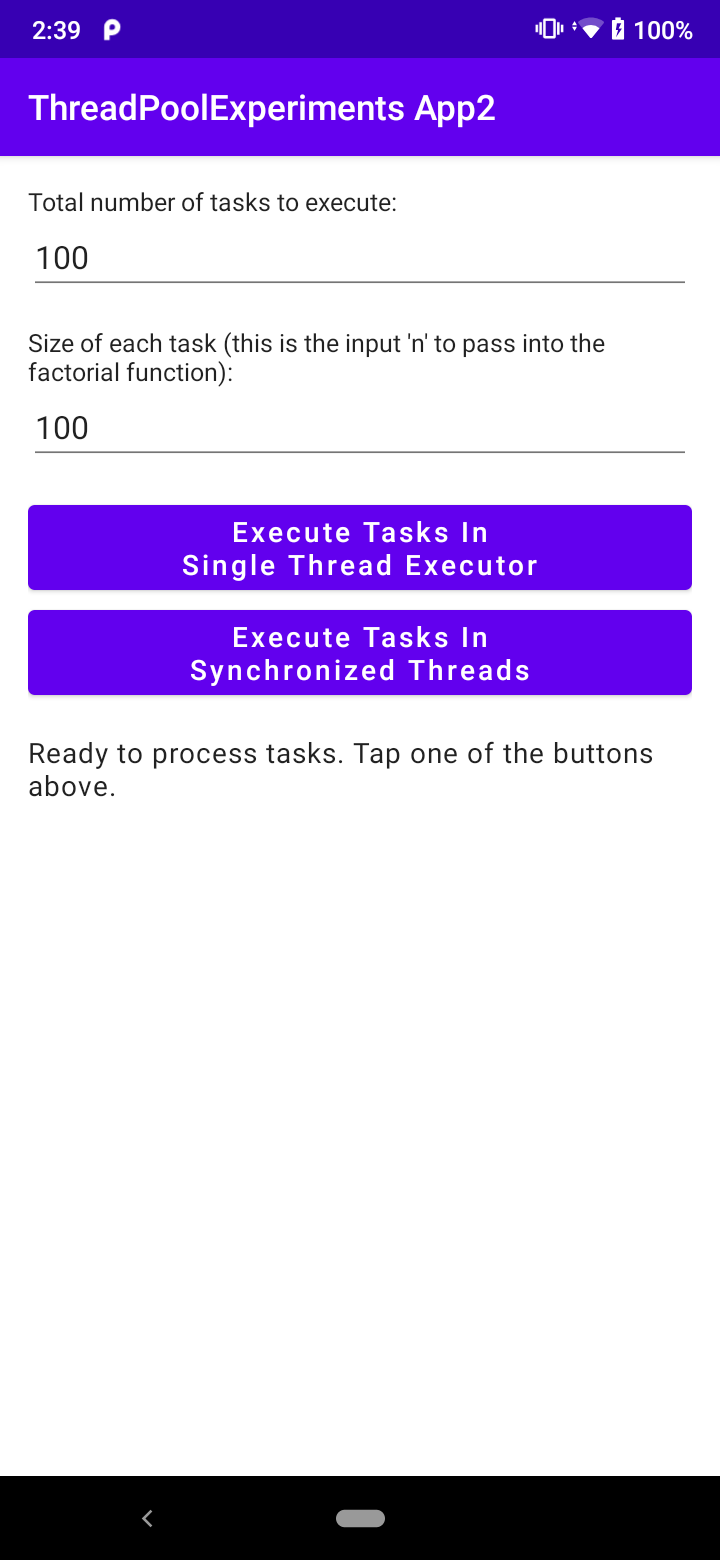
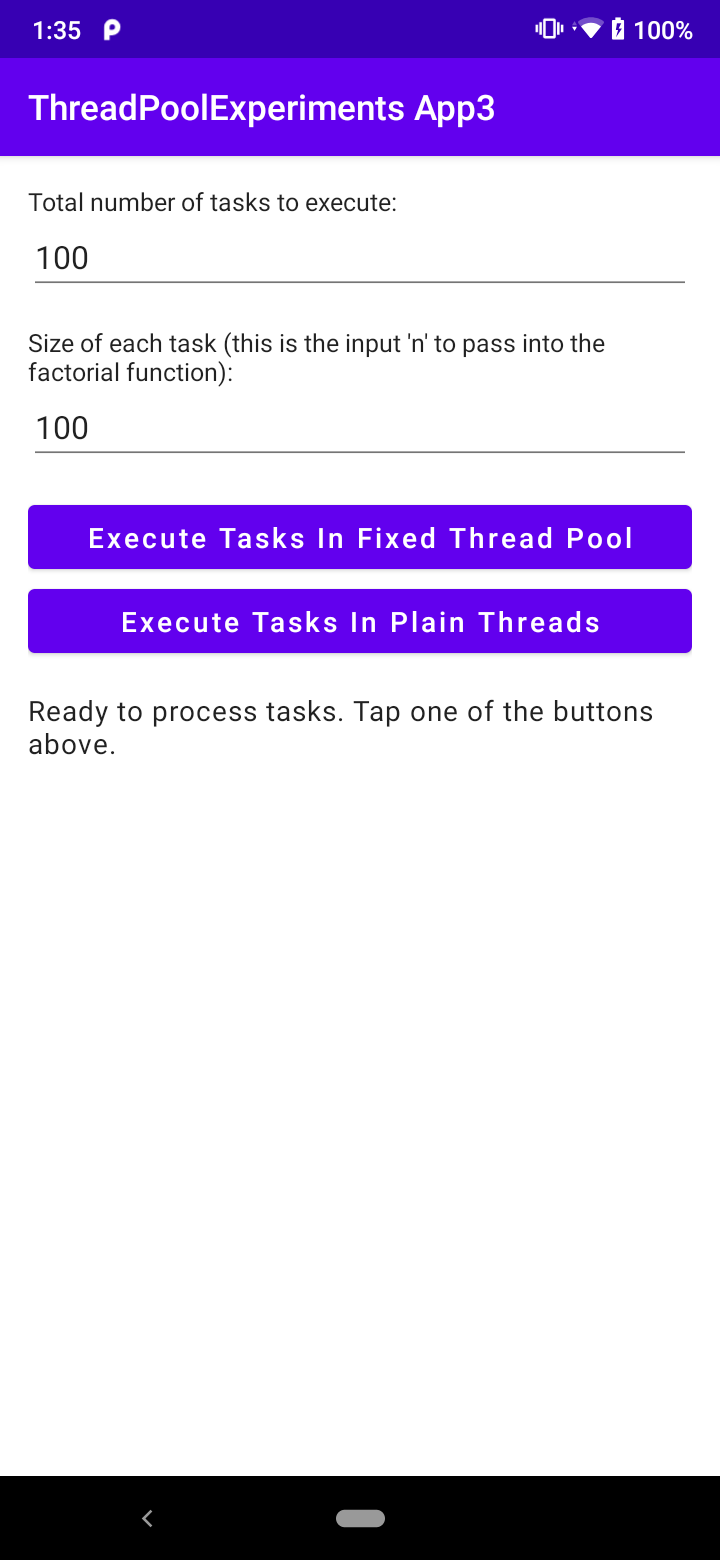
(app3) Added README.

diff --git a/app3/README.md b/app3/README.md
@@ -1,0 +1,89 @@
+# A comparison of using a fixed thread pool for executing tasks concurrently as opposed to an unbounded thread pool
+
+This module is a simple, single-screen Android application that compares
+a [Fixed Thread Pool](https://developer.android.com/reference/java/util/concurrent/Executors#newFixedThreadPool(int))
+for executing tasks concurrently as opposed to an unbounded thread pool.
+
+When you run the app, you will see an interface as in the screenshot below. The text in the interface
+describes the purpose of the app and the function of each of the buttons. The two tables below the screenshot
+show the difference in execution time when the factorial function is run multiple times in
+a [Fixed Thread Pool](https://developer.android.com/reference/java/util/concurrent/Executors#newFixedThreadPool(int))
+as opposed to spawning a separate thread for each execution.
+
+<img src="Screenshot.png" width="40%" alt="Screenshot of app">
+
+## Executing the factorial function repeatedly in a Fixed Thread Pool
+
+The table below shows the total execution time when the factorial function is run repeatedly in
+a [Fixed Thread Pool](https://developer.android.com/reference/java/util/concurrent/Executors#newFixedThreadPool(int))
+which has a size equal to the number of processors available to the Java virtual machine.
+
+<table>
+    <tr>
+        <th></th>
+        <th>factorial(100)</th>
+        <th>factorial(1,000)</th>
+        <th>factorial(10,000)</th>
+    </tr>
+    <tr>
+        <th>1 execution</th>
+        <td>&lt; 10 milliseconds</td>
+        <td>&lt; 20 milliseconds</td>
+        <td>&lt; 300 milliseconds</td>
+    </tr>
+    <tr>
+        <th>10 executions</th>
+        <td>&lt; 10 milliseconds</td>
+        <td>&lt; 50 milliseconds</td>
+        <td>&lt; 1,000 milliseconds</td>
+    </tr>
+    <tr>
+        <th>100 executions</th>
+        <td>&lt; 50 milliseconds</td>
+        <td>&lt; 300 milliseconds</td>
+        <td>App crashes</td>
+    </tr>
+</table>
+
+## Spawning a new thread for each execution of the factorial function
+
+The table below shows the total execution time when a new thread is spawned for each execution of the
+factorial function. The threads are not `synchronized` so they are all alive in memory and running
+concurrently.
+
+<table>
+    <tr>
+        <th></th>
+        <th>factorial(100)</th>
+        <th>factorial(1,000)</th>
+        <th>factorial(10,000)</th>
+    </tr>
+    <tr>
+        <th>1 execution</th>
+        <td>&lt; 10 milliseconds</td>
+        <td>&lt; 20 milliseconds</td>
+        <td>&lt; 300 milliseconds</td>
+    </tr>
+    <tr>
+        <th>10 executions</th>
+        <td>&lt; 20 milliseconds</td>
+        <td>&lt; 50 milliseconds</td>
+        <td>&lt; 1,000 milliseconds</td>
+    </tr>
+    <tr>
+        <th>100 executions</th>
+        <td>&lt; 100 milliseconds</td>
+        <td>&lt; 600 milliseconds</td>
+        <td>App crashes</td>
+    </tr>
+</table>
+
+## Conclusion
+
+My takeaway from this app is that the difference between using
+a [Fixed Thread Pool](https://developer.android.com/reference/java/util/concurrent/Executors#newFixedThreadPool(int))
+and an unbounded thread pool for concurrent task execution in an Android application is quite inconsequential
+in terms of execution time. The total execution time is almost identical in
+the [Fixed Thread Pool](https://developer.android.com/reference/java/util/concurrent/Executors#newFixedThreadPool(int))
+as it is in the unbounded thread pool regardless of the size of the task being executed and regardless of the
+number of tasks that are running concurrently.

diff --git a/app2/README.md b/app2/README.md
@@ -1,9 +1,10 @@
-# A comparison of using the ThreadPoolExecutor class as a sequential queue as opposed to the synchronized keyword
+# A comparison of using a single thread executor for executing tasks serially as opposed to the synchronized keyword
 
-This module is a simple, single-screen Android application that compares
-the [ThreadPoolExecutor](https://developer.android.com/reference/java/util/concurrent/ThreadPoolExecutor)
-class and the [synchronized](https://docs.oracle.com/javase/tutorial/essential/concurrency/syncmeth.html)
-keyword as a means of achieving a sequential queue.
+This module is a simple, single-screen Android application that compares the performance benefits of using
+a [Single Thread Executor](https://developer.android.com/reference/java/util/concurrent/Executors#newSingleThreadExecutor())
+for executing tasks serially as opposed to
+the [synchronized](https://docs.oracle.com/javase/tutorial/essential/concurrency/syncmeth.html)
+keyword.
 
 When you run the app, you will see an interface as in the screenshot below. The text in the interface
 describes the purpose of the app and the function of each of the buttons. The two tables below the screenshot
@@ -80,11 +81,11 @@ factorial function. The threads are `synchronized` so that only one is running a
 
 ## Conclusion
 
-My takeaway from this app is that the difference between using the
-[ThreadPoolExecutor](https://developer.android.com/reference/java/util/concurrent/ThreadPoolExecutor)
-class and the [synchronized](https://docs.oracle.com/javase/tutorial/essential/concurrency/syncmeth.html)
+My takeaway from this app is that the difference between using
+a [Single Thread Executor](https://developer.android.com/reference/java/util/concurrent/Executors#newSingleThreadExecutor())
+and the [synchronized](https://docs.oracle.com/javase/tutorial/essential/concurrency/syncmeth.html)
 keyword for queuing tasks in an Android application is quite inconsequential in terms of execution time. The
 total execution time is lower in
-the [ThreadPoolExecutor](https://developer.android.com/reference/java/util/concurrent/ThreadPoolExecutor) when
-the size of the tasks is large and/or when the number of tasks scheduled is large but the difference in
-execution time is not as large as one might imagine.
+the [Single Thread Executor](https://developer.android.com/reference/java/util/concurrent/Executors#newSingleThreadExecutor())
+when the size of the tasks is large and/or when the number of tasks scheduled is large. However, the
+difference in execution time is not as large as one might imagine.

diff --git a/README.md b/README.md
@@ -8,6 +8,8 @@ The applications in this project are as follows:
 
 * [app1](app1) – An analysis of the `corePoolSize`, `maximumPoolSize`, `keepAliveTime` and `workQueue`
   parameters available in the `ThreadPoolExecutor` constructor.
-* [app2](app2) – A performance comparison of using the `ThreadPoolExecutor` class versus the `synchronized`
-  keyword as a means of achieving a sequential queue.
+* [app2](app2) – A performance comparison of using a single thread executor for executing tasks serially as
+  opposed to the `synchronized` keyword.
+* [app3](app3) – A performance comparison of using a fixed thread pool for executing tasks concurrently as
+  opposed to an unbounded thread pool.
   
